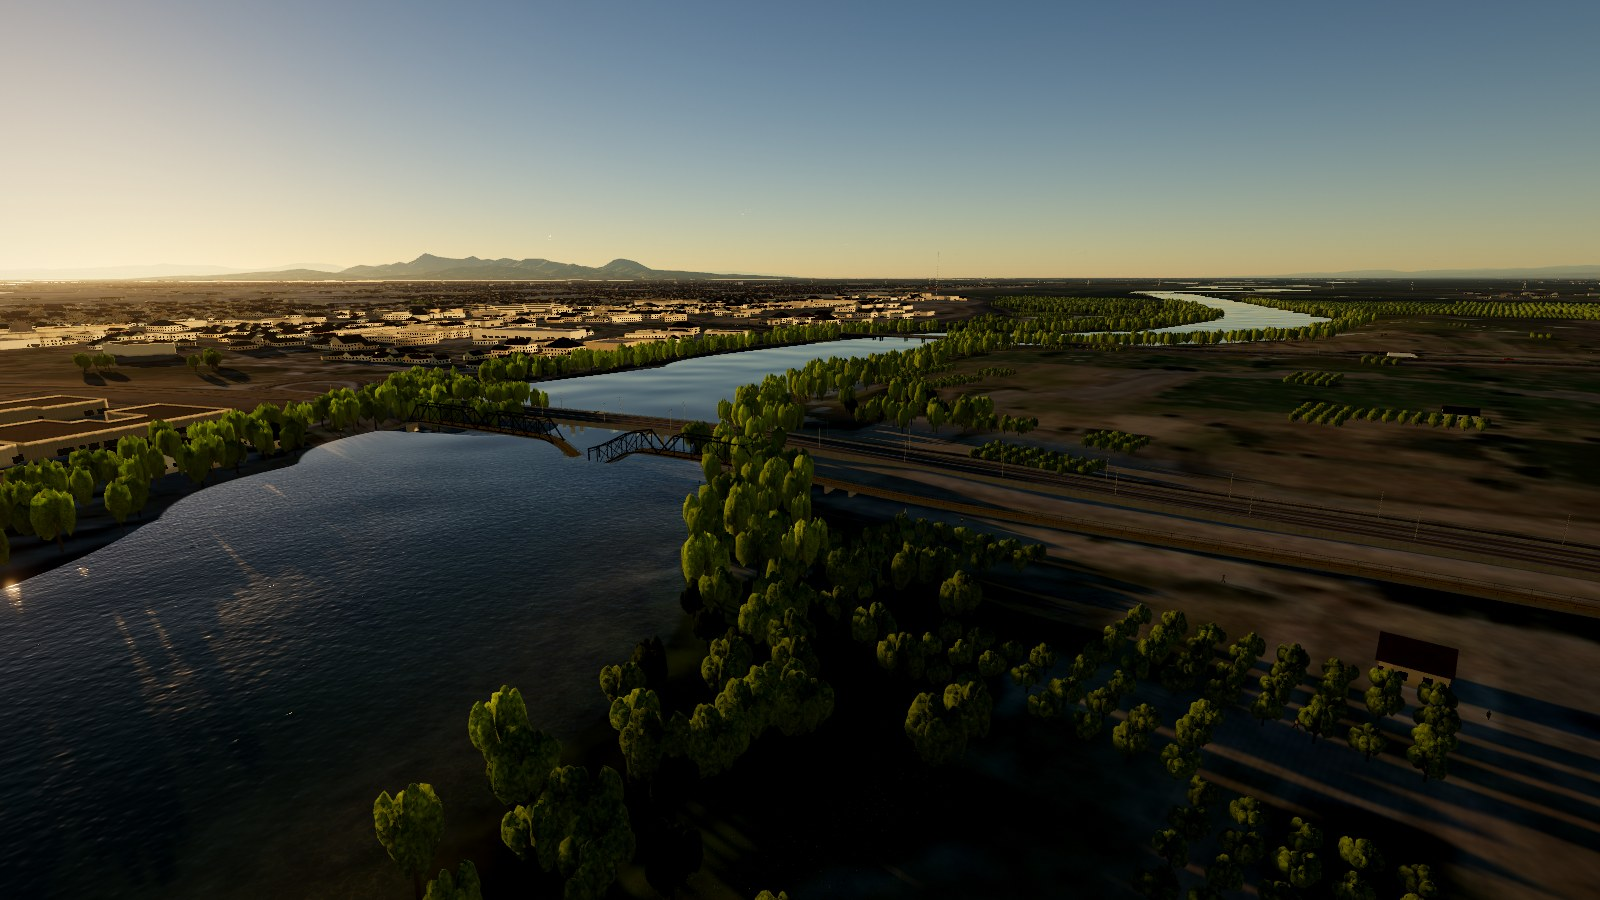
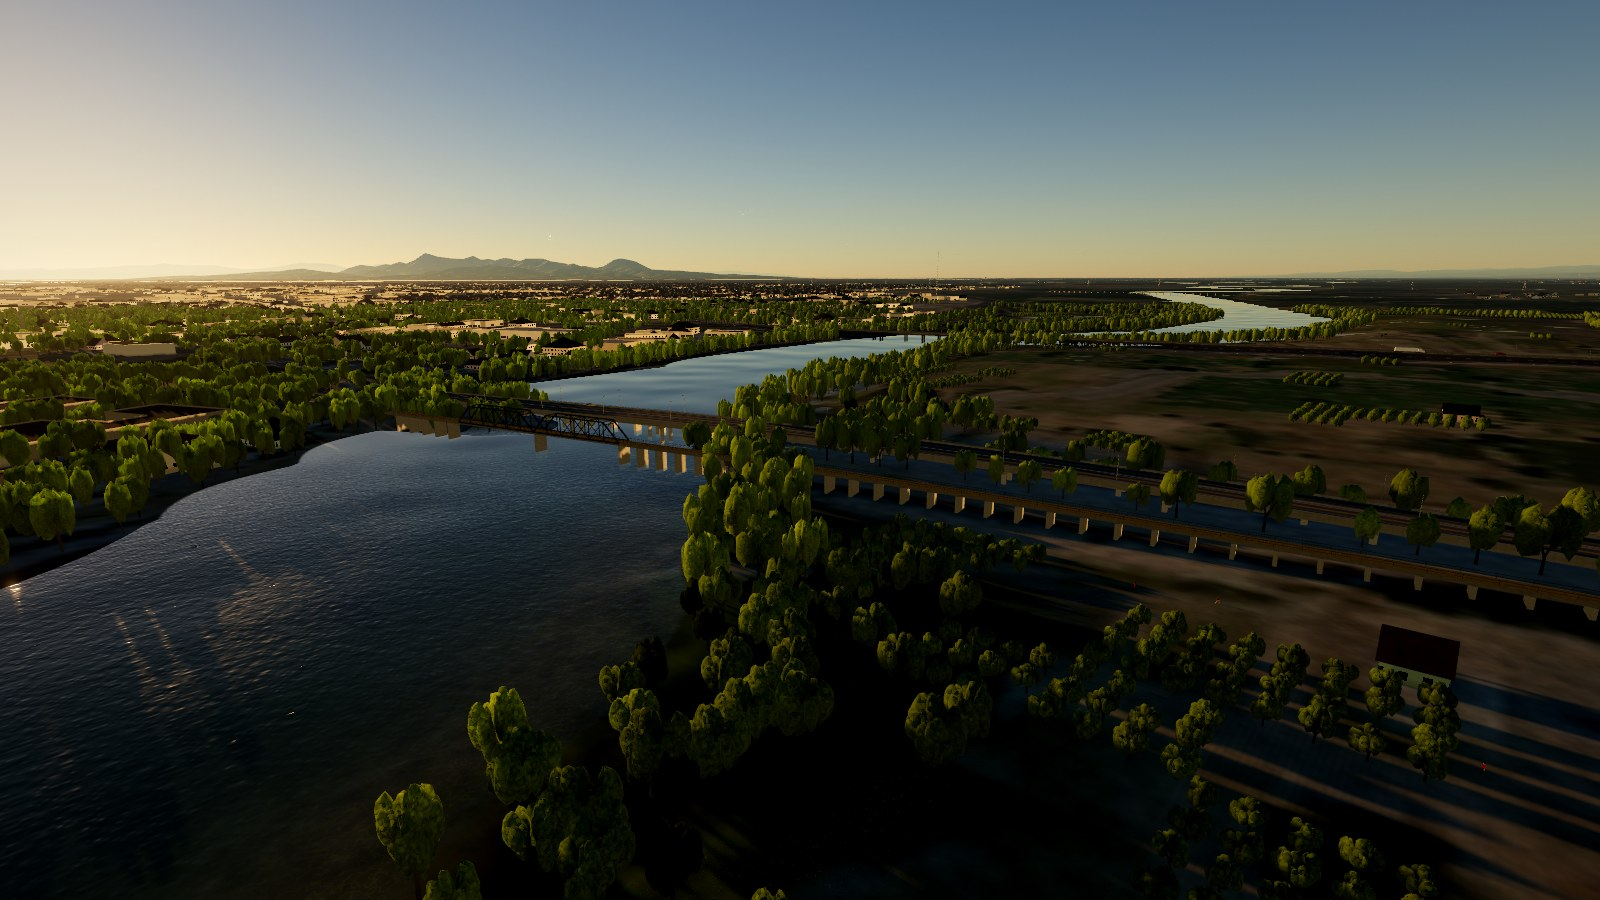
Docs: Yuba City, landmarks, houses, trees, Ellis Lake and fresh screenshots

diff --git a/docs/marysville.md b/docs/marysville.md
@@ -8,27 +8,41 @@ Fly east from the Buttes, or pick **Downtown Marysville**, **Twin Cities Memoria
 
 ## What's there
 
-**Every building.** The town covers a 5.2 km square centred on downtown, taking in the old town, the east side of Yuba City and both river crossings. Each of its roughly 5,500 OpenStreetMap buildings is extruded from its own footprint. About a hundred buildings have heights or storeys tagged by mappers, and those are used as given. Everywhere else, height, storeys, roof shape and material are estimated from the building type, footprint size and whether it stands in the Gold Rush blocks:
+**Every building.** The town covers a 9.4 km square that takes in Marysville, all of Yuba City across the Feather and every river crossing between them. Each of its roughly 19,000 OpenStreetMap buildings is extruded from its own footprint. About a hundred buildings have heights or storeys tagged by mappers, and those are used as given. Everywhere else, height, storeys, roof shape and material are estimated from the building type, footprint size and whether it stands in the Gold Rush blocks:
 
 | Type | Treatment |
 | --- | --- |
 | Downtown commercial | Brick fronts with mortar courses, lit shopfronts between brick piers, signboards (some with neon), segmental-arched sash windows and a corbelled cornice. Awnings on the street side. |
 | Stores, offices | Glass band at street level, plain panels above |
-| Houses | One storey on raised floors (two for some old-town Victorians), gable or hip roofs in shingle, tile or metal, stucco or lap siding |
+| Houses | One storey on raised floors (two for some old-town Victorians), steep 42° gable or hip roofs, lap siding in Victorian whites, creams and pastels, tall narrow sash windows, and a front porch with posts and railings on the street side |
 | Apartments, hotels | Punched windows on a storey grid, lit rooms at night |
 | Industrial, sheds | Metal and concrete, low pitched roofs |
 | Canopies | Fuel-station and loading canopies on posts |
 
 **Landmarks** are built by hand on their real footprints:
 
-- **St. Joseph Church** (cornerstone 1855). A white nave with 5 m lancet bays and buttresses under a steep gable, and a front tower facing C Street. The tower carries a louvred belfry and an octagonal spire to 30.5 m (100 ft) with a gold cross, above a rose window and a pointed door. The stained glass glows at night and the spire is floodlit.
+- **St. Joseph Church** (cornerstone 1855). A white nave with 5 m lancet bays under a steep gable, with a pinnacle on every buttress. The front tower faces C Street. It carries a clock, a louvred belfry and an octagonal spire to 30.5 m (100 ft) with a gold cross, ringed by four corner pinnacles, above a rose window and a pointed door. The stained glass glows at night and the spire is floodlit.
 - **Bok Kai Temple** (1880) on the levee at the foot of D Street: white walls, a double clay-tile roof and a red-columned porch with lanterns.
 - **State Theatre**, with its marquee lit by bulbs.
-- **Hotel Marysville**, the Yuba County Courthouse, the Chinese American Museum and the Mary Aaron Museum, named and placed where OSM maps them.
+- **Hotel Marysville** (1927): cream walls, with a seven-storey tower over the centre bay capped by a red clay-tile pyramid and balconies stacked at its corners.
+- **Marysville High School**: every building on the campus (OSM way 1056310333) is red brick with arched windows on each floor, and the larger halls carry red clay-tile hip roofs.
+- The Yuba County Courthouse, the Chinese American Museum and the Mary Aaron Museum, named and placed where OSM maps them.
 
 ![St. Joseph Church on C Street](screenshots/marysville/st-joseph.jpg)
 
 ![Bok Kai Temple on the levee](screenshots/marysville/bok-kai.jpg)
+
+![Hotel Marysville's tower over D Street](screenshots/marysville/hotel-marysville.jpg)
+
+![Marysville High School](screenshots/marysville/high-school.jpg)
+
+**Streets and Ellis Lake.** Residential streets are lined with shade trees (valley oaks and sycamore-like cottonwoods) in the parkway strip, spaced about 11 m apart and kept clear of walls, porches, the water and other streets. Downtown stays bare. Ellis Lake is real water with its islands. It is mapped as a multipolygon, which the valley data didn't read before.
+
+![The Victorian blocks north of downtown](screenshots/marysville/victorians.jpg)
+
+![Ellis Lake](screenshots/marysville/ellis-lake.jpg)
+
+![Yuba City](screenshots/marysville/yuba-city.jpg)
 
 **Bridges.** On `main`, roads across the rivers were draped on the terrain, so they ran along the riverbed under the water. Now every mapped road, rail and foot bridge is built as a deck on piers:
 
@@ -37,13 +51,15 @@ Fly east from the Buttes, or pick **Downtown Marysville**, **Twin Cities Memoria
 - **Tenth Street / POW/MIA Bridge** (CA 20, 1947): 49 m spans with sodium lamps.
 - **E Street Bridge** (CA 70) over the Yuba, plus the Union Pacific rail bridges and the smaller footbridges and boardwalks.
 
-Each deck runs level between its abutments and lifts to clear the water (6.5 m for road and rail, 3 m for footbridges), then it is smoothed and blended into the approaches. Road bridges are registered with the terrain so that road ribbons, traffic and the truck ride on the deck rather than dropping to the riverbed. The truck no longer counts as underwater while it is on a bridge.
+Each deck runs level at levee height. Its abutments sit on the highest dry ground within 60 m of each end, and it clears the river by 10 m (8.5 m for the old interurban trusses, 3.5 m for footbridges). Ramps run down to the ground beyond the levees, and ways that OSM splits mid-river are joined first so the deck doesn't dip.
+
+Outside town, every other road in the valley that crosses mapped water gets the same treatment. Where it crosses a river or slough it becomes a bridge, and where it runs along the water (a levee road) it becomes a raised embankment. Road bridges are registered with the terrain so that road ribbons, traffic and the truck ride on the deck rather than dropping to the riverbed. The truck no longer counts as underwater while it is on a bridge.
 
 ![The Northern Electric truss bridge beside the new Fifth Street bridge](screenshots/marysville/northern-electric-truss.jpg)
 
 ![E Street bridge over the Yuba](screenshots/marysville/e-street-bridge.jpg)
 
-**Imagery.** A 3072 px USGS mosaic (about 1.7 m per pixel) is draped over the town, so streets, yards, parking lots and Ellis Lake read correctly from the air. It replaces the coarse mid-range imagery there, and the procedural farmland detail fades out inside town.
+**Imagery.** A 4096 px USGS mosaic (about 2.3 m per pixel) is draped over the town, so streets, yards, parking lots and Ellis Lake read correctly from the air. It replaces the coarse mid-range imagery there, and the procedural farmland detail fades out inside town.
 
 **Saturday night.** Downtown is busy after dark. Up to 2,800 people (900 on phones) walk the sidewalks along the building line and the mapped footpaths. Most of them are on the downtown blocks, and small groups stand outside the bars, restaurants, the theatre and the hotel. The crowd follows the clock:
 
@@ -77,12 +93,12 @@ People are simple low-poly figures with a walk cycle, in a mix of skin tones, ha
 
 `npm run data` has a new `marysville` step (`scripts/lib/marysville.mjs`):
 
-1. **Overpass query** for the town square, cached in `.cache/osm/marysville.json`. It fetches building ways and multipolygon outer rings, highway and railway bridges, `man_made=bridge` outlines (these carry names like "Twin Cities Memorial Bridge"), footways, and amenity, tourism and historic points.
+1. **Overpass query** for the town square, cached in `.cache/osm/marysville_9400.json`. It fetches building ways and multipolygon outer rings, highway and railway bridges, `man_made=bridge` outlines (these carry names like "Twin Cities Memorial Bridge"), footways, and amenity, tourism and historic points.
 2. **Classify** each building into one of eleven kinds (house, commercial, retail, apartments, civic, industrial, shed, canopy, church, temple, hotel) from its `building`, `amenity`, `shop` and `name` tags. Names from points inside a footprint are attached to that building, so the State Theatre and Hotel Marysville get their names.
 3. **Massing.** Use the tagged `height` or `building:levels` where present, otherwise estimate by kind. An oriented bounding box picks gable or hip roofs for simple footprints.
-4. **Landmarks** are matched by name (St. Joseph, Bok Kai, the State Theatre and so on) and flagged for the hand-built models.
+4. **Landmarks** are matched by name (St. Joseph, Bok Kai, the State Theatre and so on) and flagged for the hand-built models. Buildings inside the Marysville High School grounds are tagged `cp: 'mhs'`.
 5. **Bridges** are classified as road, rail, abandoned rail or foot, with widths from lanes and type.
-6. **Output** goes to `public/data/marysville.json` (751 KB), and the USGS mosaic to `public/data/imagery_marysville.jpg`. `meta.json` gains a `town` entry, which is what makes the game load the town.
+6. **Output** goes to `public/data/marysville.json` (2.7 MB), and the USGS mosaic to `public/data/imagery_marysville.jpg`. `meta.json` gains a `town` entry, which is what makes the game load the town.
 
 USGS imagery tops out at zoom 16 for this area. Zoom 17 returns 404s.
 
@@ -90,11 +106,13 @@ USGS imagery tops out at zoom 16 for this area. Zoom 17 returns 404s.
 
 | File | Role |
 | --- | --- |
-| `src/world/town.ts` | Builds the buildings, landmarks and bridges. Geometry is merged into 600 m chunks that cast shadows and are hidden beyond 12 km. It also exposes landmark positions, the town zone and a building frontage ray cast. |
+| `src/world/town.ts` | Builds the buildings, landmarks, bridges and street trees. Geometry is merged into 600 m chunks that cast shadows and are drawn within 6 km. Beyond that the orthophoto carries the town. It also exposes landmark positions, the town zone and a building frontage ray cast. |
 | `src/render/shaders/townShader.ts` | Procedural facades: brick, shopfronts, neon, sash windows, lancets, the rose window, roof materials, concrete and steel |
 | `src/world/decks.ts` | Spatial index of bridge decks. `Heightfield.roadHeight()` returns the deck height when you travel along a deck. |
 | `src/life/pedestrians.ts` | Instanced crowd with a GPU walk cycle, sidewalk paths and an hourly activity curve |
-| `src/world/props.ts` | Generic OSM houses stand down inside the town zone. Streetlights stay. |
+| `src/world/props.ts` | Generic OSM houses stand down inside the town zone, and anywhere they would sit in a river. Streetlights stay. |
+| `src/world/water.ts`, `scripts/lib/osm.mjs` | Multipolygon lakes (Ellis Lake) with their islands |
+| `src/veg/trees.ts` | Planted trees outside the imagery zone join the outer tiles as they grow |
 | `src/world/roads.ts`, `src/life/traffic.ts`, `src/vehicle/car.ts` | Use `roadHeight()` so ribbons, cars and the truck follow bridge decks |
 | `src/render/shaders/terrainShader.ts` | Blends the town imagery in |
 | `src/world/destinations.ts`, `places.ts`, `lore.ts` | Places menu entries, HUD place names and discovery cards |

diff --git a/README.md b/README.md
@@ -16,7 +16,7 @@ The terrain, land cover, roads, buildings and trees all come from real survey da
 - **Roads and traffic.** Cars, pickups and big rigs drive the real road network, including Pass Road through the Buttes. Headlights and taillights show at night.
 - **Ranch tracks.** The private dirt tracks that wind into the range are mapped too: two-rut adobe lanes with a grassy crown that turn to mud in the rain. A graded one leaves North Butte Road for the slopes of North Butte.
 - **Old cemeteries.** North Butte Cemetery (the "witches' cemetery") sits at the end of a long dirt lane off North Butte Road under a big valley oak, with weathered marble tablets, obelisks, toppled and broken stones, an iron fence and a "closed sunset to sunrise" sign. Noyesburg, Stohlman and the tiny Pugh family plot are built from their real outlines too.
-- **Marysville.** Fly east across the Feather River to the old Gold Rush river port. Every building in a 5 km square around downtown is extruded from its real OpenStreetMap footprint, with tagged heights where mappers have recorded them and roof shapes, materials and storeys estimated from building type everywhere else. Downtown gets brick fronts with shopfronts, sash windows and cornices. St. Joseph Church (1855) has its white nave, lancet windows, rose window and 100 ft spire, and the Bok Kai Temple (1880) stands on the levee at the foot of D Street. Over the river are the 2019 Twin Cities Memorial Bridge beside the 1906–07 Northern Electric Pratt trusses, the 1947 Tenth Street bridge and the E Street bridge over the Yuba, all on piers above the water. Cars and the truck drive across their decks. On a Saturday night (or any night) the downtown sidewalks fill with people heading out. See [docs/marysville.md](docs/marysville.md).
+- **Marysville.** Fly east across the Feather River to the old Gold Rush river port. Every building in a 9.4 km square covering Marysville and Yuba City is extruded from its real OpenStreetMap footprint, with tagged heights where mappers have recorded them and roof shapes, materials and storeys estimated from building type everywhere else. Downtown gets brick fronts with shopfronts, sash windows and cornices, Hotel Marysville gets its red-tiled tower and the high school its brick halls. The Victorian blocks have pastel siding, porches and tree-lined streets around Ellis Lake. St. Joseph Church (1855) has its white nave, lancet windows, rose window and 100 ft spire, and the Bok Kai Temple (1880) stands on the levee at the foot of D Street. Over the river are the 2019 Twin Cities Memorial Bridge beside the 1906–07 Northern Electric Pratt trusses, the 1947 Tenth Street bridge and the E Street bridge over the Yuba, all on piers above the water. Cars and the truck drive across their decks. On a Saturday night (or any night) the downtown sidewalks fill with people heading out. See [docs/marysville.md](docs/marysville.md).
 - **Places.** The menu's Places tab jumps you straight to the valley towns (Yuba City, Colusa, Live Oak, Gridley, Sutter, Biggs, Princeton, Olivehurst, Plumas Lake), to downtown Marysville, the Twin Cities Memorial Bridge or St. Joseph Church, or into the Buttes: Pass Road, North Butte Road, West Butte Road, the cemetery gate or the ranch track to North Butte.
 - **Weather.** Clear, haze, scattered cloud, overcast, tule fog, rain, thunderstorms and snow. Rain soaks the ground and roads into reflective puddles with raindrop rings; snow builds up on fields, trees, roads and the truck, then melts depending on the season and sun. Lightning lights up the valley, and its thunder arrives late by the strike's distance. Wet roads cut tyre grip and can aquaplane the truck, fields turn to mud, snow makes everything slide, and showers bring downdrafts and turbulence that weigh a bird down.
 - **Drive a pickup.** Swap between bird and truck at any time. The truck has a first-person cockpit with live gauges, headlights, wipers, dust and spray trails, and collisions with trees.
@@ -25,7 +25,7 @@ The terrain, land cover, roads, buildings and trees all come from real survey da
 - **Under water.** The water is green and murky with caustics on the riverbed. Fifteen real species swim there: Chinook salmon, steelhead, white sturgeon, striped bass, Sacramento pikeminnow, sucker, hardhead, splittail, tule perch, Sacramento perch, largemouth bass, bluegill, channel catfish, carp and American shad. Each lives in its own habitat and season.
 - **The whole valley.** Away from the detailed imagery, procedural detail fills in: square-mile sections split into fields with crop rows and weedy ditches, flooded rice with levees and contour checks, and marsh with tule stands. Orchards, riverbank forest and farmstead groves grow in 3D around you wherever you fly.
 - **Easter eggs and lore.** About thirty discoveries are hidden around the Buttes, with a card for each one you find. Reach the summits, follow the rivers and spot the fish. Visit the witches' cemetery after dark. And stand on top of North Butte to see the Buttes as they were 1.6 million years ago.
-- **Procedural sound.** Wind rises with airspeed and whistles in a stoop, and wingbeats are audible. The ambience follows the time, season and terrain: meadowlarks, red-winged blackbirds, crickets that chirp at the right rate for the temperature, frogs over the rice, cattle, coyotes and honking geese.
+- **Procedural sound.** Wind rises with airspeed and whistles in a stoop, and wingbeats are audible. The ambience follows the time, season and terrain: meadowlarks, red-winged blackbirds, crickets that chirp at the right rate for the temperature, frogs over the rice, cattle, coyotes and honking geese. A volume slider sits beside the mute button and remembers its setting.
 
 ## Controls
 
